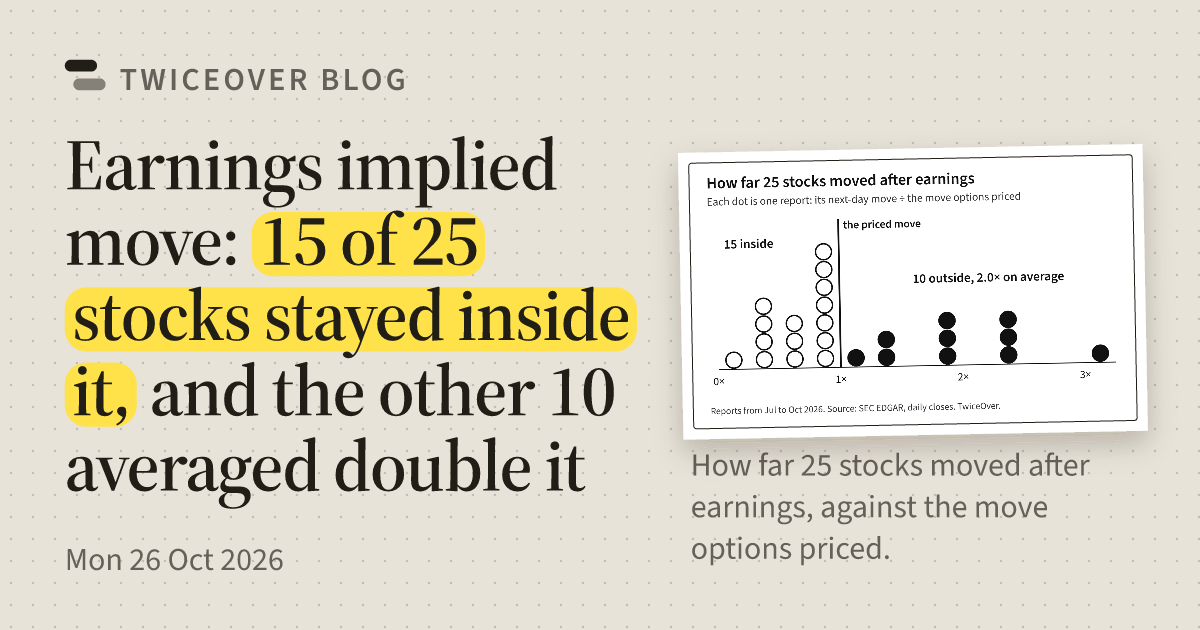
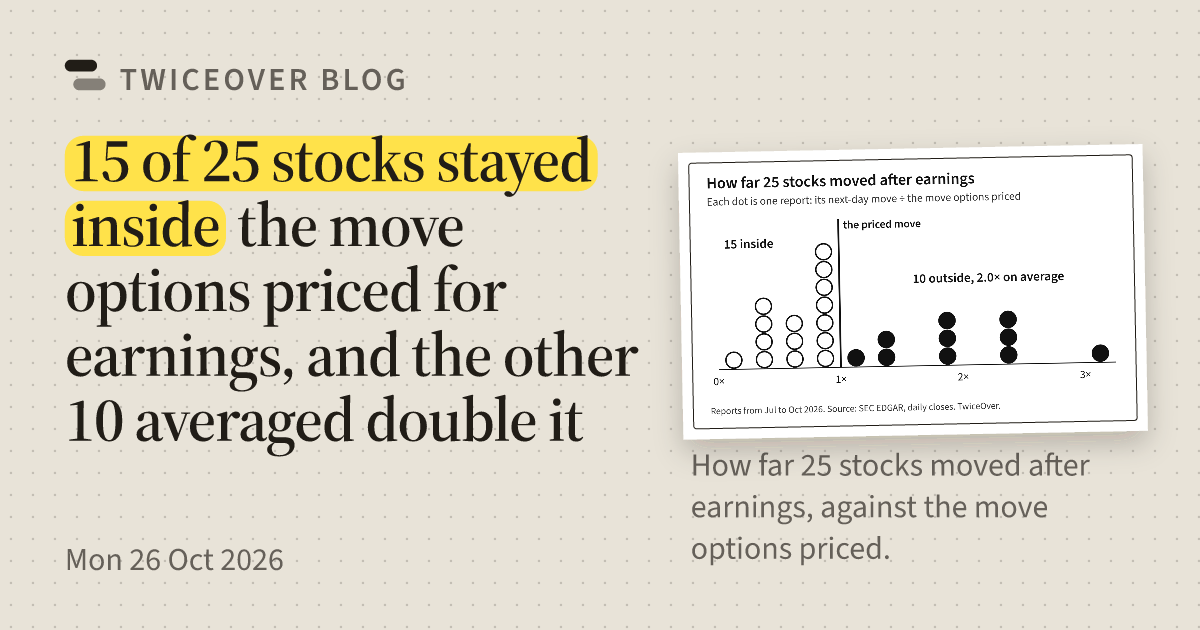
growth: four blog titles state the claim a stranger gets cold (stock-analyst-platform#2609) (#173)
Founder, 2026-10-27: headlines that leave the insight in the description or need
prior knowledge do not work. Four titles retitled; first sentences already state
their claim and are unchanged.

- IV crush: "...can lose 21% when the stock rises 4%" (was "has already paid for the jump")
- Silence Therapeutics: "38 cents is interest, 4 cents is deal risk" (was the Treasury-bill clause)
- Earnings implied move: leads with the 15 of 25 figure, plain words for the priced move
- September CPI: "there is no new yearly inflation rate until 10 December"

The `hit` highlight follows the new title on the first two. The four link-preview
cards are regenerated (npm run gen:blog-share); check:post passes on all four.
Slugs, dates, descriptions and bodies are unchanged.

Changed region(s): [[0.0308, 0.2111, 0.555, 0.8143]]

diff --git a/src/content/blog/earnings-implied-move-average.md b/src/content/blog/earnings-implied-move-average.md
@@ -1,12 +1,12 @@
 ---
-title: "Earnings implied move: 15 of 25 stocks stayed inside it, and the other 10 averaged double it"
+title: "15 of 25 stocks stayed inside the move options priced for earnings, and the other 10 averaged double it"
 description: "Before a company reports, the options market prices the average size of move it expects. A few big moves pull an average up, so most stocks finish inside it. Of 25 big reports from July to October 2026, 15 stayed inside and the other 10 averaged double their priced move."
 publishAt: "2026-10-26T07:00:00-04:00"
 topic: "earnings"
 lens: "concept"
 build: "chart-led"
 look: "paper-marker"
-hit: "15 of 25 stocks stayed inside it"
+hit: "15 of 25 stocks stayed inside"
 figure:
   value: "15 of 25"
   note: "stocks moved less than their options priced"

diff --git a/src/content/blog/iv-crush-call-before-earnings.md b/src/content/blog/iv-crush-call-before-earnings.md
@@ -1,12 +1,12 @@
 ---
-title: "IV crush: a call bought before earnings has already paid for the jump"
+title: "IV crush: a call bought before earnings can lose 21% when the stock rises 4%"
 description: "Before a company reports, a call's price already includes the jump the news could bring. Once the news is out, that part of the price drains away, and traders call the drain IV crush. In our example the stock rises 4% overnight and the call loses 21%."
 publishAt: "2026-11-06T07:00:00-05:00"
 topic: "option-math"
 lens: "concept"
 build: "text-led"
 look: "neon"
-hit: "already paid"
+hit: "can lose 21%"
 sources: "Black and Scholes, 1973; Overnight call calculator | https://twiceover.io/blog/tools/overnight-call; Own calculation"
 ---
 

diff --git a/src/content/blog/silence-therapeutics-merck-spread.md b/src/content/blog/silence-therapeutics-merck-spread.md
@@ -1,5 +1,5 @@
 ---
-title: "Silence Therapeutics (SLN) closed 42 cents under Merck KGaA's $20 offer, and a Treasury bill earns 38 of them by March"
+title: "Silence Therapeutics (SLN) closed 42 cents under Merck KGaA's $20 offer: 38 cents is interest, 4 cents is deal risk"
 description: "Silence Therapeutics closed Monday at $19.58 against Merck KGaA's $20.00 cash offer. The same $19.58 in a Treasury bill earns about 38 cents by the end of March, so the market asks about 4 cents for the risk that the deal fails."
 publishAt: "2026-10-21T07:00:00-04:00"
 topic: "company-events"

diff --git a/src/content/blog/september-cpi-next-yearly-rate-10-december.md b/src/content/blog/september-cpi-next-yearly-rate-10-december.md
@@ -1,5 +1,5 @@
 ---
-title: "After September's CPI, the next yearly rate comes on 10 December"
+title: "After September's CPI, there is no new yearly inflation rate until 10 December"
 description: "The CPI report on 14 October carries the last 12-month inflation rate until 10 December. October 2025 was never measured, so the report due on 10 November has no yearly rate. The Federal Reserve sets interest rates twice in between."
 publishAt: "2026-10-14T07:00:00-04:00"
 topic: "macro-fed"
